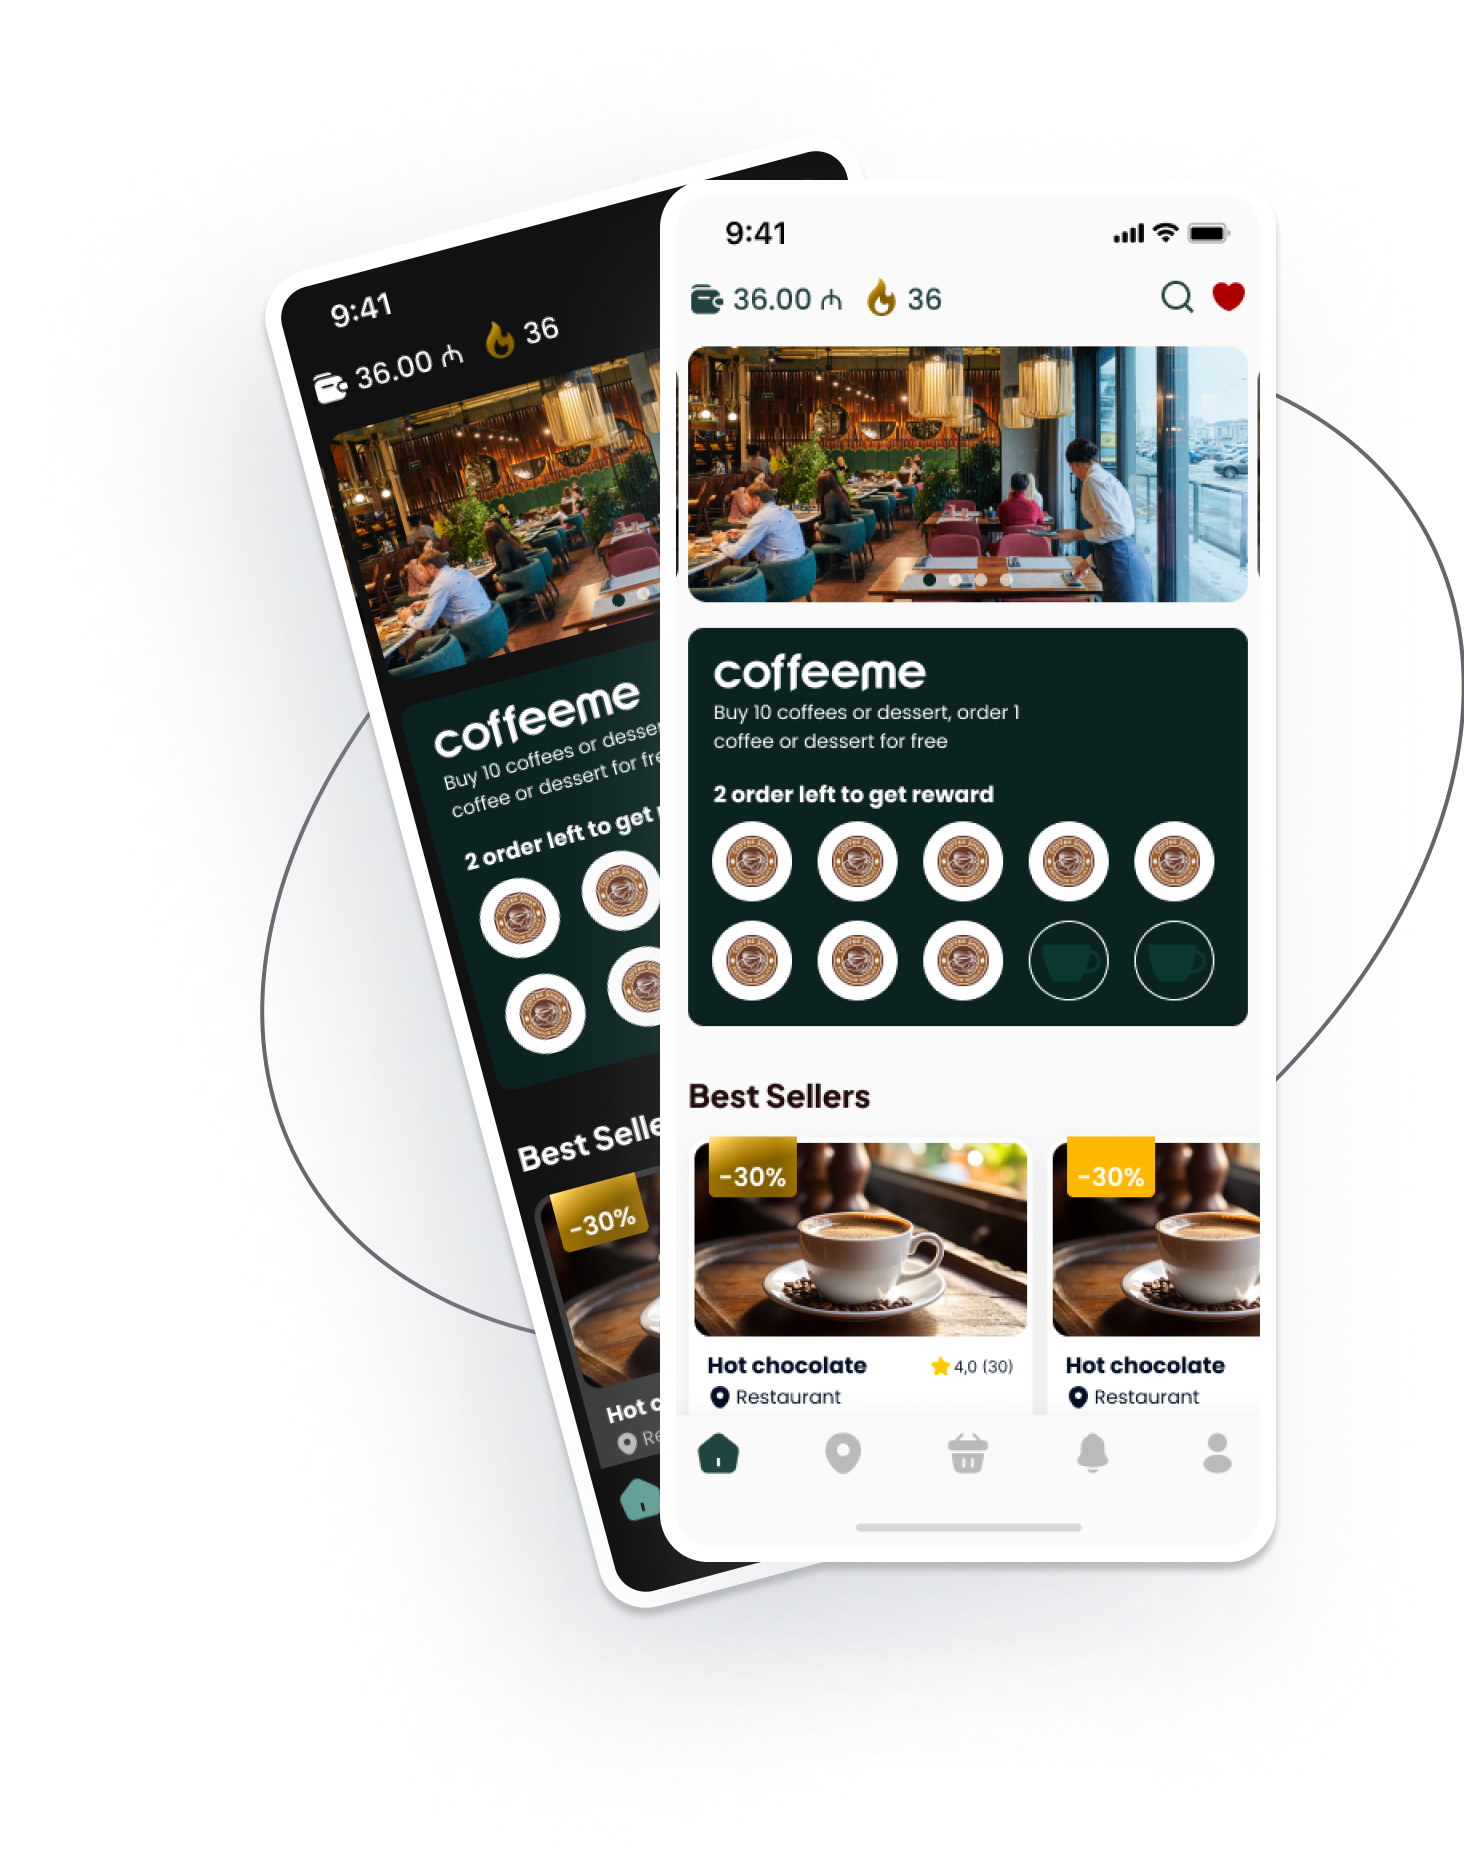
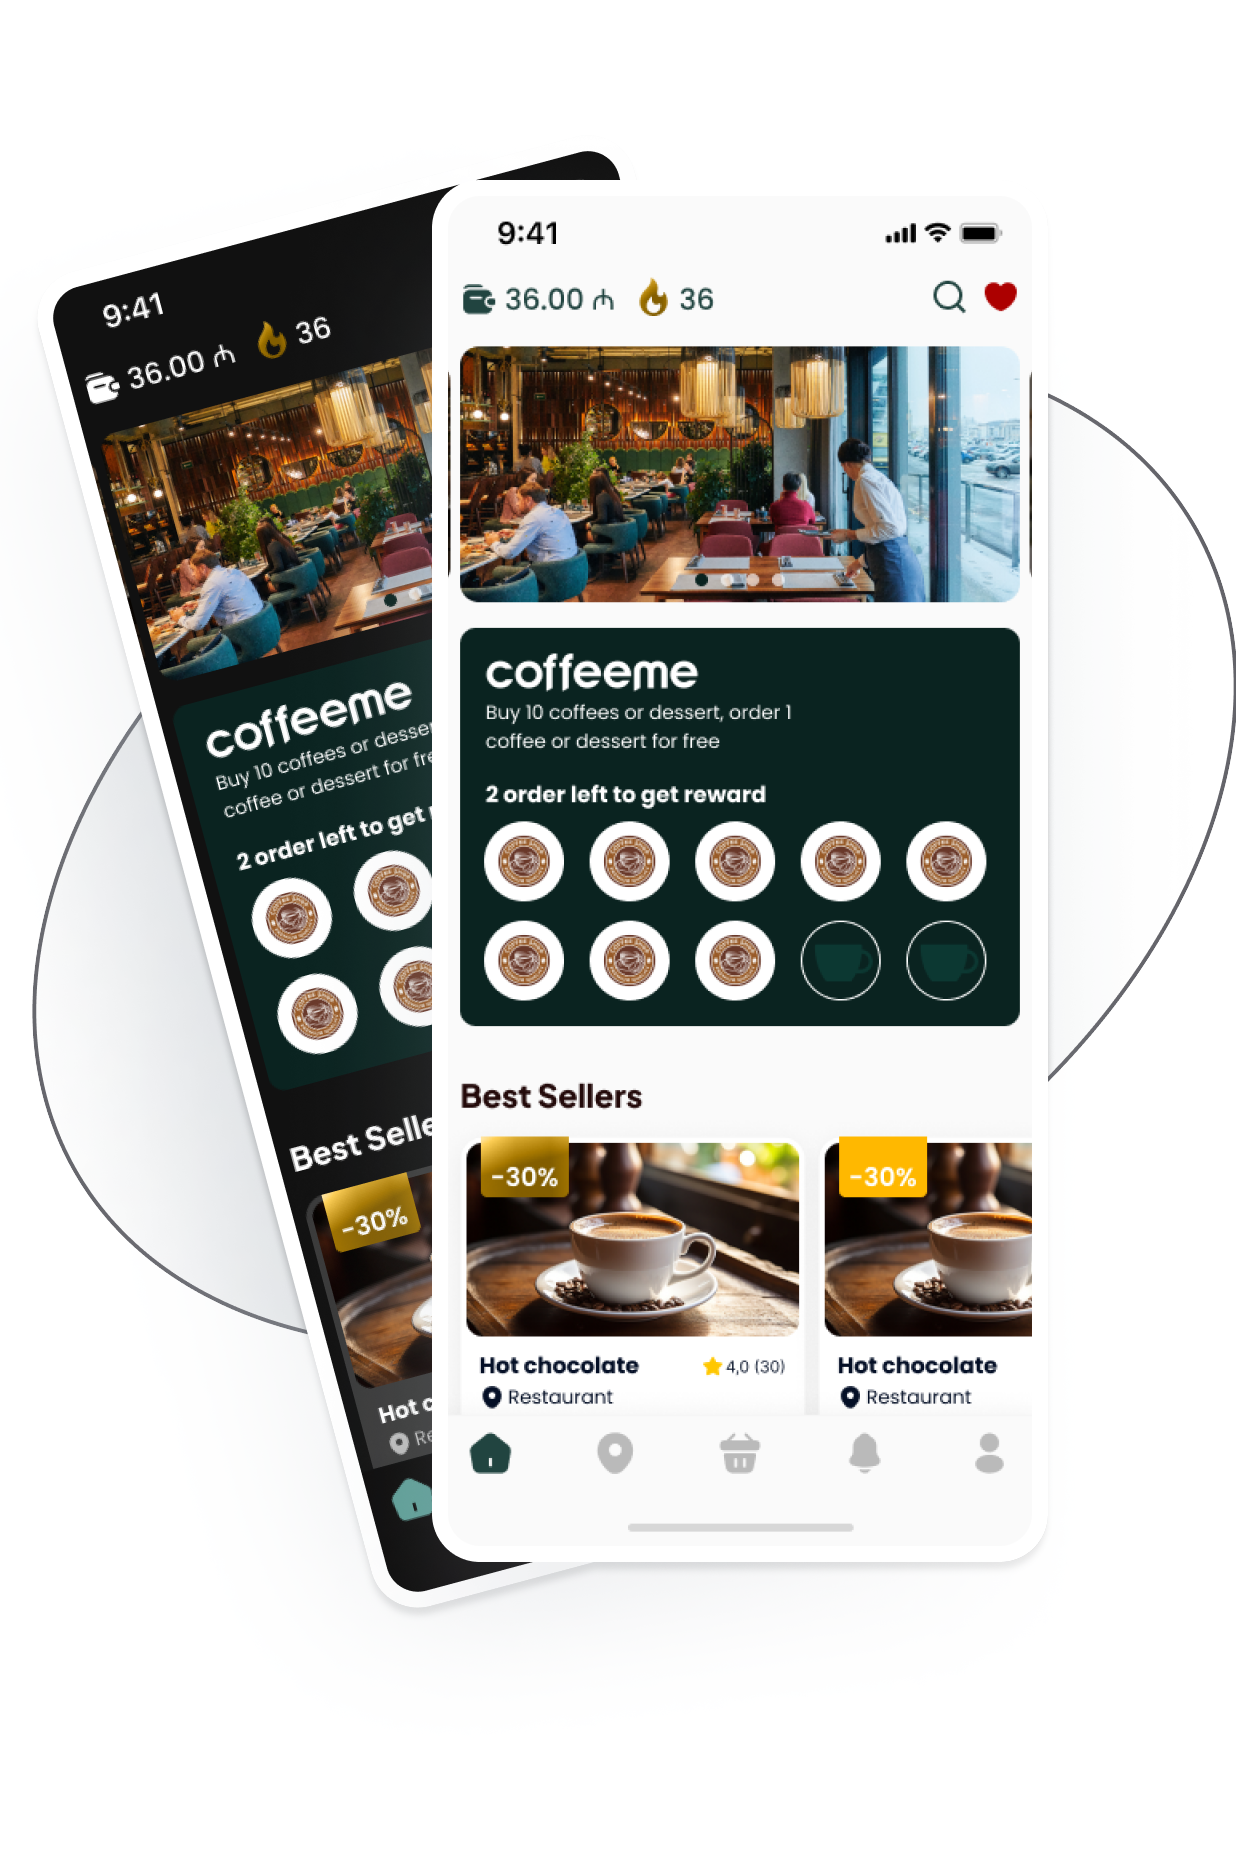
header

diff --git a/src/components/Header.jsx b/src/components/Header.jsx
@@ -90,10 +90,10 @@ const Header = () => {
                       duration: 1, 
                       ease: [0.25, 0.1, 0.25, 1],
                   }}
-                    className="section__right relative sm:flex-row flex-col flex justify-center items-start px-5 pb-16 w-full mx-auto">
-                    <div className="relative sm:pb-12 pb-20 sm:px-0 px-5">
+                    className="section__right relative sm:flex-row flex-col flex justify-center items-start sm:px-5 px-0 pb-16 w-full mx-auto">
+                    <div className="relative pb-12 sm:pr-0 pr-3">
                         <img src={mobileapp} className="phone-img object-fit" alt="mobile-app" />
-                        <div className="absolute sm:bottom-20 bottom-20 left-20 rounded-2xl md:px-4 lg:py-4 px-3 py-2 flex-col bg-white lg:max-w-60 md:max-w-44 sm:max-w-36 max-w-44">
+                        <div className="absolute sm:bottom-28 bottom-20 left-20 rounded-2xl md:px-4 lg:py-4 px-3 py-2 flex-col bg-white lg:max-w-60 md:max-w-44 sm:max-w-36 max-w-44">
                             <div className="flex sm:gap-2 gap-1 lg:mb-3 sm:mb-1 mb-2">
                                 <FaStar className="w-4" />
                                 <FaStar className="w-4 " />
